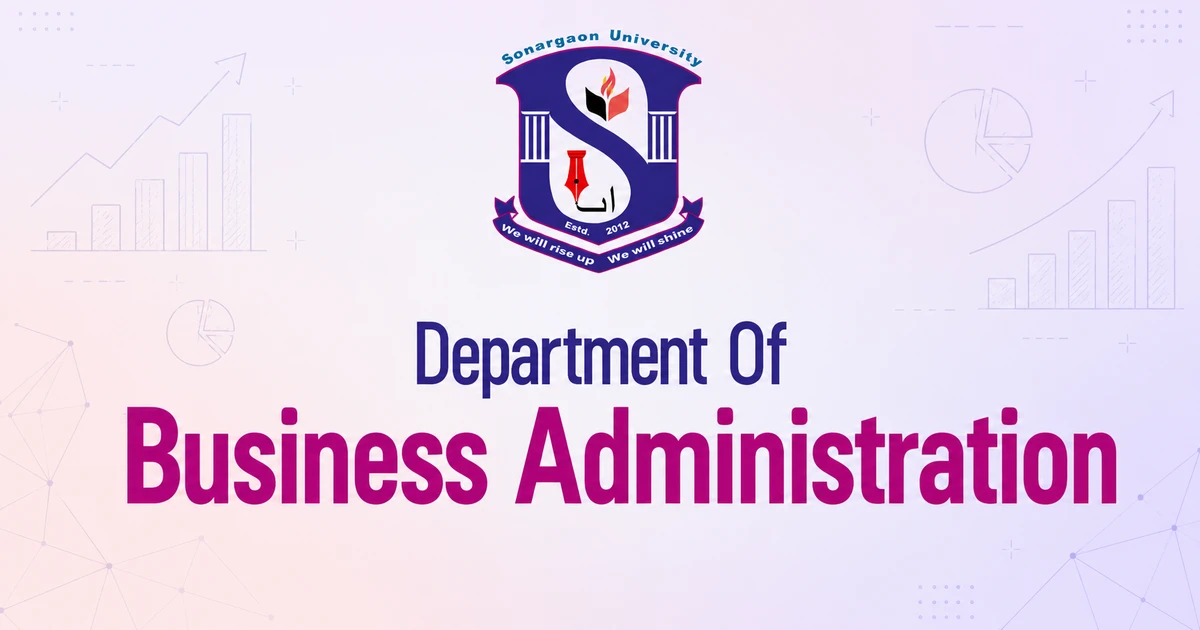
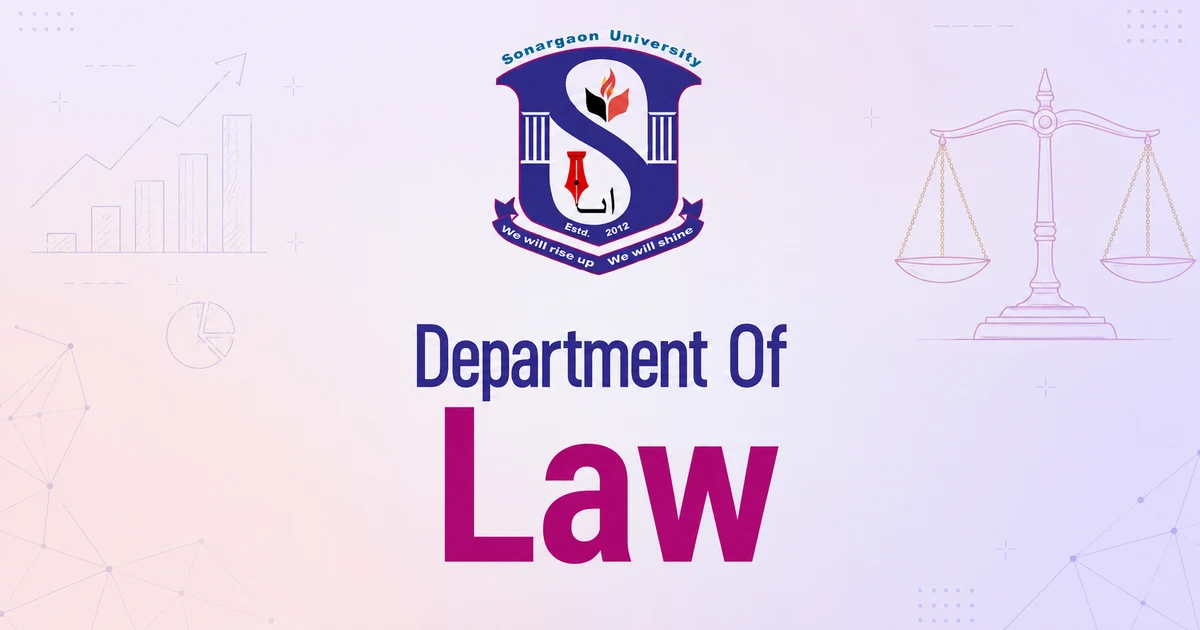
feat: add Open Graph image support for department identity

diff --git a/src/app/layout.tsx b/src/app/layout.tsx
@@ -24,45 +24,56 @@ const hindSiliguri = Hind_Siliguri({
   display: 'swap',
 });
 
-const SITE_URL = 'https://su-business-administration.vercel.app';
+const SITE_URL = 'https://su-law.vercel.app';
 const SITE_NAME = 'Sonargaon University — Department of Law';
 const SITE_DESCRIPTION =
   'Department of Law, Faculty of Arts and Humanities, Sonargaon University — programs, faculty, research, admissions, and campus services.';
-const OG_IMAGE = '/assets/og-banner.webp';
+// Fallback share card, used when DepartmentIdentity.ogImageUrl is unset
+// (fresh install, or before the chair uploads one).
+const OG_IMAGE_FALLBACK = '/assets/og-banner.webp';
 
-export const metadata: Metadata = {
-  metadataBase: new URL(SITE_URL),
-  title: {
-    default: SITE_NAME,
-    template: '%s — Sonargaon University Law',
-  },
-  description: SITE_DESCRIPTION,
-  alternates: {
-    canonical: '/',
-  },
-  openGraph: {
-    type: 'website',
-    locale: 'en_US',
-    url: '/',
-    siteName: SITE_NAME,
-    title: SITE_NAME,
+// generateMetadata (not a static `metadata` object) so the share card can
+// come from the DB and be swapped in /admin without a deploy.
+// getDepartmentIdentity is React.cache-wrapped and shares its query with
+// RootLayout below, so this costs no extra round-trip.
+export async function generateMetadata(): Promise<Metadata> {
+  const dept = await getDepartmentIdentity();
+  const ogImage = dept.ogImageUrl || OG_IMAGE_FALLBACK;
+
+  return {
+    metadataBase: new URL(SITE_URL),
+    title: {
+      default: SITE_NAME,
+      template: '%s — Sonargaon University Law',
+    },
     description: SITE_DESCRIPTION,
-    images: [
-      {
-        url: OG_IMAGE,
-        width: 1200,
-        height: 630,
-        alt: 'Sonargaon University — Department of Law',
-      },
-    ],
-  },
-  twitter: {
-    card: 'summary_large_image',
-    title: SITE_NAME,
-    description: SITE_DESCRIPTION,
-    images: [OG_IMAGE],
-  },
-};
+    alternates: {
+      canonical: '/',
+    },
+    openGraph: {
+      type: 'website',
+      locale: 'en_US',
+      url: '/',
+      siteName: SITE_NAME,
+      title: SITE_NAME,
+      description: SITE_DESCRIPTION,
+      images: [
+        {
+          url: ogImage,
+          width: 1200,
+          height: 630,
+          alt: SITE_NAME,
+        },
+      ],
+    },
+    twitter: {
+      card: 'summary_large_image',
+      title: SITE_NAME,
+      description: SITE_DESCRIPTION,
+      images: [ogImage],
+    },
+  };
+}
 
 // Phase 18 — minimal root layout. The previous root layout pulled in
 // the admin-vs-public chrome conditional via `headers()` to read

diff --git a/src/app/admin/(authed)/department-identity/DepartmentForm.tsx b/src/app/admin/(authed)/department-identity/DepartmentForm.tsx
@@ -28,11 +28,11 @@ export default function DepartmentForm({ initial }: { initial: Initial }) {
     <form action={formAction} className="space-y-6">
       {/* ─── Homepage hero copy ─── */}
       <Card title="Homepage hero">
-        <TextField label="Program Name" name="programName"
+        <TextField label="Name" name="programName"
                    defaultValue={initial?.programName ?? ''} />
-        <TextField label="Program Short Form" name="programShortForm"
+        <TextField label="Short Form" name="programShortForm"
                    defaultValue={initial?.programShortForm ?? ''} />
-        <TextField label="Program Subtitle Name" name="programSubtitle"
+        <TextField label="Subtitle" name="programSubtitle"
                    defaultValue={initial?.programSubtitle ?? ''} />
       </Card>
 
@@ -66,6 +66,21 @@ export default function DepartmentForm({ initial }: { initial: Initial }) {
           name="logo"
           initialUrl={initial?.logoUrl}
           initialPublicId={initial?.logoPublicId}
+        />
+      </Card>
+
+      {/* ─── Social share card ─── */}
+      <Card title="Social share image (Open Graph)">
+        <p className="text-sm text-gray-500 mb-3">
+          Shown when a link to this site is shared on Facebook, LinkedIn, X, or
+          WhatsApp. Recommended size 1200×630 pixels. Leave empty to use the
+          bundled default banner.
+        </p>
+        <ImageUploader
+          kind="department-og"
+          name="ogImage"
+          initialUrl={initial?.ogImageUrl ?? undefined}
+          initialPublicId={initial?.ogImagePublicId ?? undefined}
         />
       </Card>
 

diff --git a/src/lib/validation.ts b/src/lib/validation.ts
@@ -21,6 +21,9 @@ export const departmentUpdateSchema = z.object({
   logoUrl:         z.string().min(1),
   logoPublicId:    nullableString,
   breadcrumbLabel: z.string().min(1).max(50),
+  // Social share card — optional; null falls back to the bundled banner.
+  ogImageUrl:      optionalNullableString,
+  ogImagePublicId: optionalNullableString,
   // Hero copy — optional so an empty field falls back to the
   // department name rather than blocking the whole form save.
   programName:      z.string().max(200).default(''),
@@ -278,6 +281,7 @@ export const cloudinaryDeleteSchema = z.object({
 export const uploadKindSchema = z.enum([
   'department-logo',
   'department-hero',
+  'department-og',
   'university-logo',
   'program-image',
   'research-icon',

diff --git a/src/components/admin/ImageUploader.tsx b/src/components/admin/ImageUploader.tsx
@@ -14,6 +14,7 @@ import { compressImage, formatBytes } from '@/lib/image-compress';
 type Kind =
   | 'department-logo'
   | 'department-hero'
+  | 'department-og'
   | 'university-logo'
   | 'program-image'
   | 'research-icon'
@@ -53,6 +54,7 @@ type Kind =
 const RECOMMENDED_SIZE_BY_KIND: Record<Kind, string | null> = {
   'department-logo':       'Square / horizontal logo · transparent PNG · ~512×512',
   'department-hero':       'Landscape banner · 1920×600 (16:5) recommended',
+  'department-og':         'Social share card · 1200×630 (1.91:1) required',
   'university-logo':       'Horizontal logo · transparent PNG · ~600×200',
   'program-image':         'Landscape · 1200×675 (16:9)',
   'research-icon':         'Square · 400×400',

diff --git a/src/app/(public)/about/message-from-head/page.tsx b/src/app/(public)/about/message-from-head/page.tsx
@@ -94,7 +94,9 @@ export default async function MessageFromHeadPage() {
                   {head.messageTitleLine1 && (
                     <p className="text-white/80 text-sm mt-1">{head.messageTitleLine1}</p>
                   )}
-                  <p className="text-white/70 text-sm">{dept.name}</p>
+                  {head.messageTitleLine2 && (
+                    <p className="text-white/70 text-sm">{head.messageTitleLine2}</p>
+                  )}
                   <p className="text-white/70 text-sm">{uni.name}</p>
                 </div>
               </div>

diff --git a/src/lib/admin-actions/department.ts b/src/lib/admin-actions/department.ts
@@ -33,6 +33,8 @@ export async function updateDepartmentAction(
     logoUrl:            getStr(formData, 'logoUrl'),
     logoPublicId:       emptyToNull(formData.get('logoPublicId')),
     breadcrumbLabel:    getStr(formData, 'breadcrumbLabel'),
+    ogImageUrl:         emptyToNull(formData.get('ogImageUrl')),
+    ogImagePublicId:    emptyToNull(formData.get('ogImagePublicId')),
     programName:        getStr(formData, 'programName'),
     programShortForm:   getStr(formData, 'programShortForm'),
     programSubtitle:    getStr(formData, 'programSubtitle'),

diff --git a/src/app/sitemap.ts b/src/app/sitemap.ts
@@ -1,7 +1,7 @@
 import type { MetadataRoute } from 'next';
 import { prisma } from '@/lib/db';
 
-const BASE_URL = 'https://su-business-administration.vercel.app';
+const BASE_URL = 'https://su-law.vercel.app';
 
 const staticRoutes: { path: string; priority: number; changeFrequency: 'weekly' | 'monthly' | 'yearly' }[] = [
   { path: '/', priority: 1.0, changeFrequency: 'weekly' },

diff --git a/src/lib/cloudinary.ts b/src/lib/cloudinary.ts
@@ -31,6 +31,7 @@ function ensureConfigured() {
 const KIND_TO_SUBFOLDER: Record<string, string> = {
   'department-logo':       'department/logo',
   'department-hero':       'department/hero',
+  'department-og':         'department/og',
   'university-logo':       'university/logo',
   'program-image':         'programs',
   'research-icon':         'research-areas',

diff --git a/src/app/robots.ts b/src/app/robots.ts
@@ -1,6 +1,6 @@
 import type { MetadataRoute } from 'next';
 
-const BASE_URL = 'https://su-business-administration.vercel.app';
+const BASE_URL = 'https://su-law.vercel.app';
 
 export default function robots(): MetadataRoute.Robots {
   return {

diff --git a/Plan/og-image-prompt.md b/Plan/og-image-prompt.md
@@ -1,0 +1,111 @@
+# OG Image তৈরির প্রম্পট
+
+সোশ্যাল শেয়ার কার্ড (Facebook, LinkedIn, X, WhatsApp) — Department of Law,
+Sonargaon University।
+
+**মাপ:** ঠিক **1200 × 630 px** (1.91:1)
+**ফরম্যাট:** WebP বা PNG
+**বসানোর জায়গা:** `/admin/department-identity` → Social share image (Open Graph)
+
+---
+
+## ব্র্যান্ড রং (প্রজেক্টের ডেটাবেস থেকে)
+
+| ভূমিকা | HEX | ব্যবহার |
+|---|---|---|
+| Primary | `#2B3175` | গাঢ় ইন্ডিগো — পটভূমি, মূল রং |
+| Accent | `#CC1579` | ম্যাজেন্টা — জোর দেওয়ার জন্য, লাইন |
+| Button | `#F8BD23` | সোনালি হলুদ — ছোট হাইলাইট |
+
+---
+
+## প্রম্পট (ইংরেজিতে — AI ইমেজ টুলে দিন)
+
+```
+Create a professional social media share banner, exactly 1200x630 pixels,
+for a university law department.
+
+BRAND COLORS (use exactly these):
+- Deep indigo background: #2B3175
+- Magenta accent: #CC1579
+- Golden yellow highlight: #F8BD23
+
+LAYOUT:
+- Left two-thirds: text block, left-aligned
+    Small overline in golden yellow #F8BD23, uppercase, wide letter-spacing:
+      "SONARGAON UNIVERSITY"
+    Large bold headline in white, two lines:
+      "Department of"
+      "Law"
+    Thin magenta #CC1579 horizontal rule below the headline
+    One line of subtitle in soft white (75% opacity), smaller:
+      "Faculty of Arts and Humanities"
+- Right third: a single restrained legal motif — a balanced scale of
+  justice OR a classical column, rendered as a subtle line-art or
+  low-opacity silhouette in magenta and gold. Not a photograph.
+- Background: deep indigo with a soft diagonal gradient toward near-black
+  at the bottom-right; optional very faint geometric pattern at under 8%
+  opacity.
+
+STYLE:
+- Clean, institutional, academic. Editorial poster feel.
+- Modern geometric sans-serif typography (like Poppins or Montserrat).
+- Generous margins: keep all text at least 60px from every edge.
+- Flat vector aesthetic. No stock-photo people, no clip-art gavel,
+  no cheesy 3D, no lens flare.
+- High contrast so the text stays readable when the card is shown small
+  in a chat preview.
+
+DO NOT include: any university crest or logo (added separately),
+watermarks, placeholder lorem text, or the words "Business" or "BBA".
+```
+
+---
+
+## ছোট সংস্করণ (দ্রুত ব্যবহারের জন্য)
+
+```
+Professional 1200x630 social share banner for a university law department.
+Deep indigo #2B3175 background with subtle diagonal gradient. Left side:
+golden #F8BD23 uppercase overline "SONARGAON UNIVERSITY", large white bold
+headline "Department of Law", thin magenta #CC1579 rule, small subtitle
+"Faculty of Arts and Humanities". Right side: minimal line-art scales of
+justice in magenta and gold at low opacity. Flat vector, geometric sans-serif
+type, generous margins, high contrast, institutional and clean. No photos,
+no people, no logo, no 3D.
+```
+
+---
+
+## গুরুত্বপূর্ণ নির্দেশনা
+
+**লেখা:** AI ইমেজ টুল প্রায়ই অক্ষর ভুল লেখে। দুটি উপায়:
+1. প্রম্পটে লেখা চান, তারপর যাচাই করুন — বানান ঠিক আছে কিনা
+2. অথবা শুধু পটভূমি ও মোটিফ তৈরি করুন, লেখা পরে Canva/Figma-তে বসান
+   (এটিই নিরাপদ)
+
+**লোগো:** প্রম্পটে লোগো চাইনি ইচ্ছাকৃতভাবে — AI বিশ্ববিদ্যালয়ের আসল
+ক্রেস্ট আঁকতে পারবে না। ছবি তৈরির পর `public/assets/su-colour-logo.webp`
+নিজে বসিয়ে নিন (সাধারণত উপরের-বাঁয়ে বা নিচের-ডানে)।
+
+**যাচাই করুন:** ছোট আকারে (থাম্বনেইল) দেখে নিন লেখা পড়া যাচ্ছে কিনা —
+চ্যাটে শেয়ার হলে কার্ড ছোট দেখায়।
+
+---
+
+## কোথায় বসাবেন
+
+**উপায় ১ (সুপারিশ) — `/admin` থেকে:**
+`/admin/department-identity` → "Social share image (Open Graph)" → আপলোড
+ছবি যাবে Cloudinary-তে `law-dept/department/og/` ফোল্ডারে।
+
+**উপায় ২ — ফাইল বদলে:**
+`c:\Databrandix HQ\SU-Law\public\assets\og-banner.webp` — একই নামে নতুন ছবি রাখুন।
+
+---
+
+## ✅ সম্পন্ন
+
+- নতুন OG ছবি বসানো হয়েছে: `public/assets/og-banner.webp` (1200×630, 40 KB)
+- `SITE_URL` ঠিক করা হয়েছে: `https://su-law.vercel.app`
+- `robots.ts` ও `sitemap.ts`-এর `BASE_URL`-ও একই ডোমেইনে হালনাগাদ
